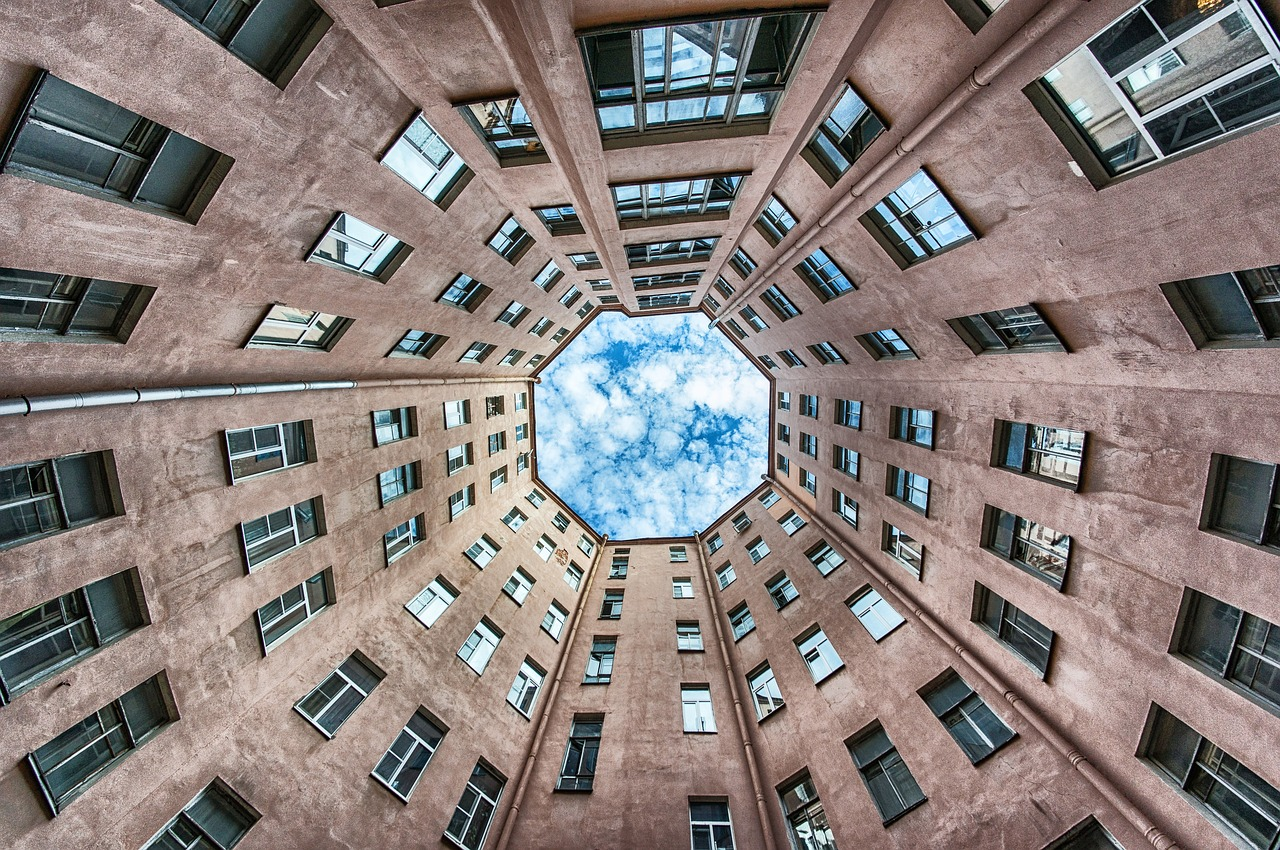
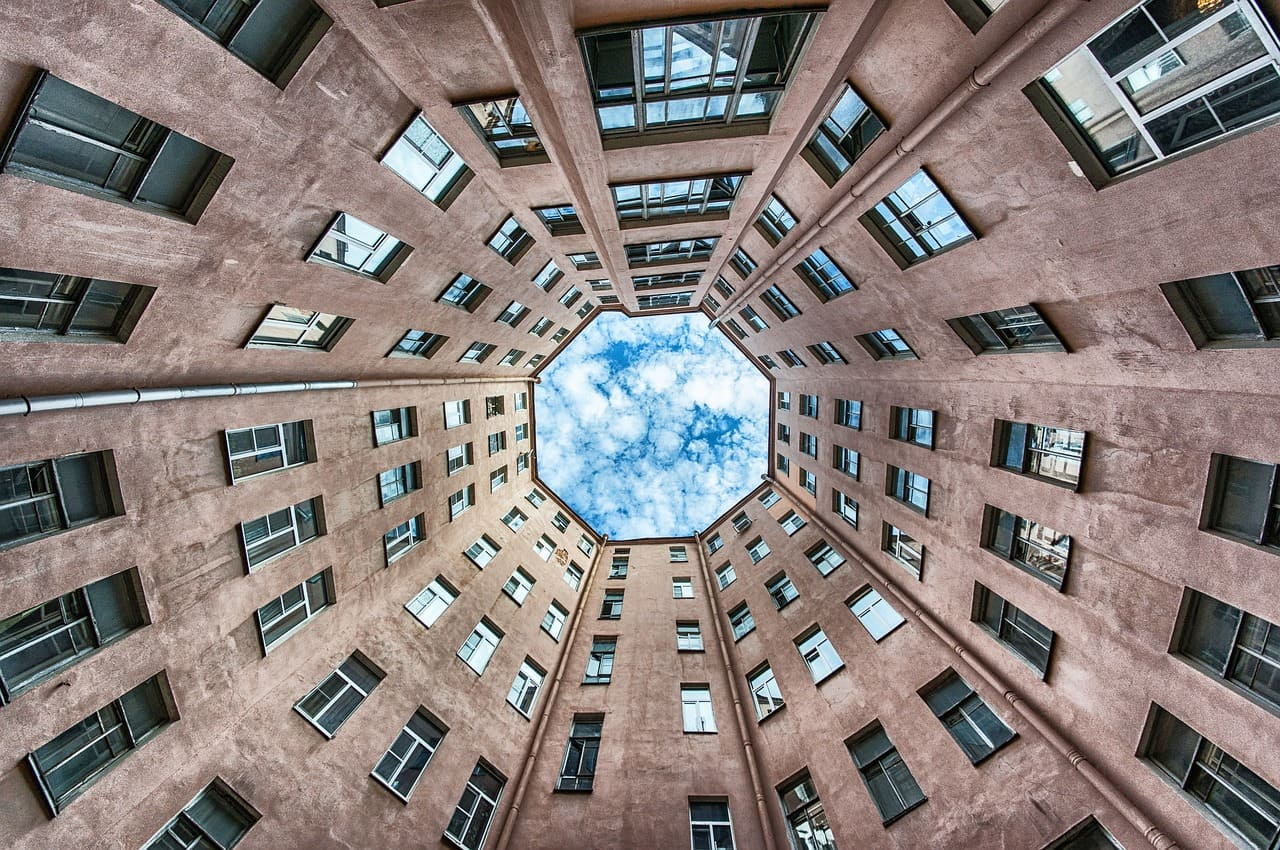
сжаты изображения

diff --git a/index.html b/index.html
@@ -173,7 +173,7 @@
         <!--  -->
         <div class="about-photo">
           <div class="about-photo__content">
-            <img src="src/img/VYcyYdkxI7A.jpg" alt="" />
+            <img src="src/img/Bykov.jpg.jpg" alt="" />
             <p>Дмитрий Быков</p>
           </div>
         </div>
@@ -419,7 +419,11 @@
                   </div>
                 </div>
                 <div class="work-item__img-col">
-                  <img src="src/img/3.JPG" alt="" class="work-item__img" />
+                  <img
+                    src="src/img/after-portfolio/3.jpg"
+                    alt=""
+                    class="work-item__img"
+                  />
                 </div>
               </div>
             </div>
@@ -441,7 +445,11 @@
                   </div>
                 </div>
                 <div class="work-item__img-col">
-                  <img src="src/img/555.JPG" alt="" class="work-item__img" />
+                  <img
+                    src="src/img/after-portfolio/555.JPG"
+                    alt=""
+                    class="work-item__img"
+                  />
                 </div>
               </div>
             </div>
@@ -464,7 +472,7 @@
                 </div>
                 <div class="work-item__img-col">
                   <img
-                    src="src/img/arcanoid.JPG"
+                    src="src/img/after-portfolio/arcanoid.JPG"
                     alt=""
                     class="work-item__img"
                   />
